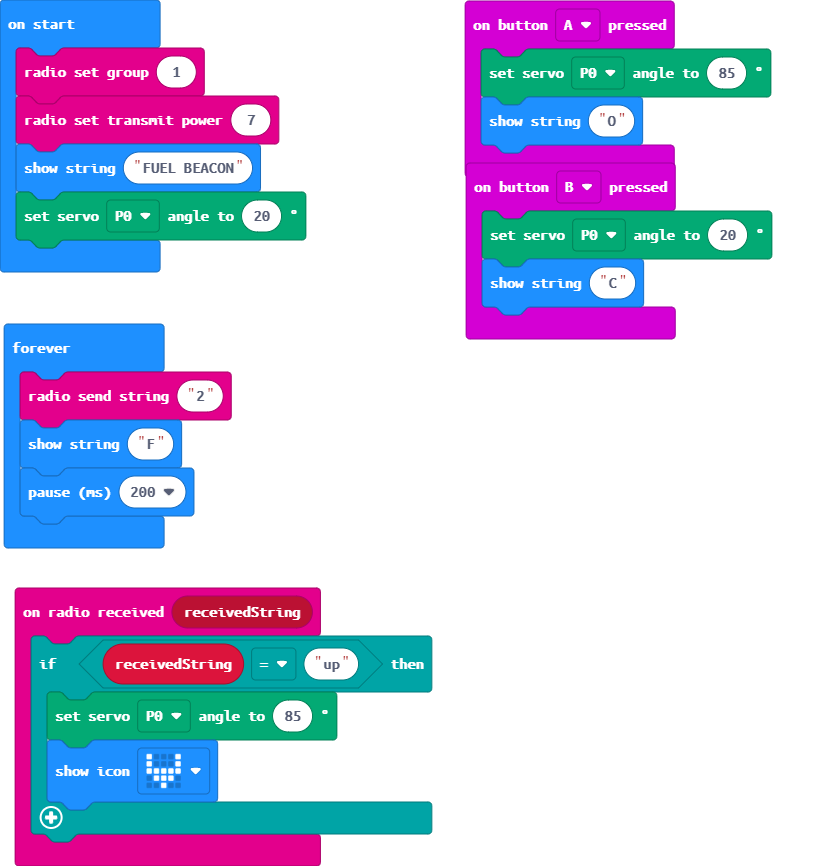
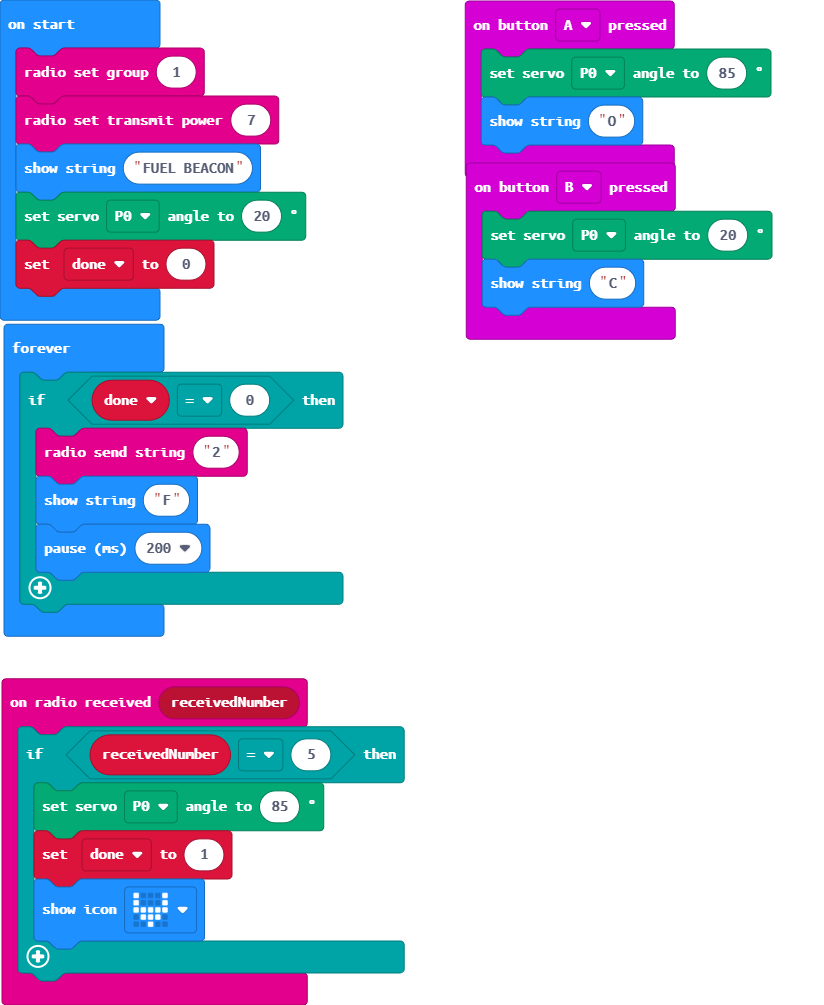
add done variable

Changed region(s): [[0.0, 0.0, 0.4248, 0.6236], [0.0, 0.6547, 0.5461, 1.0], [0.5461, 0.0, 0.9405, 0.4053]]

diff --git a/main.ts b/main.ts
@@ -1,23 +1,28 @@
+radio.onReceivedNumber(function (receivedNumber) {
+    if (receivedNumber == 5) {
+        servos.P0.setAngle(85)
+        done = 1
+        basic.showIcon(IconNames.Cow)
+    }
+})
 input.onButtonPressed(Button.A, function () {
     servos.P0.setAngle(85)
     basic.showString("O")
-})
-radio.onReceivedString(function (receivedString) {
-    if (receivedString == "up") {
-        servos.P0.setAngle(85)
-        basic.showIcon(IconNames.Cow)
-    }
 })
 input.onButtonPressed(Button.B, function () {
     servos.P0.setAngle(20)
     basic.showString("C")
 })
+let done = 0
 radio.setGroup(1)
 radio.setTransmitPower(7)
 basic.showString("FUEL BEACON")
 servos.P0.setAngle(20)
+done = 0
 basic.forever(function () {
-    radio.sendString("2")
-    basic.showString("F")
-    basic.pause(200)
+    if (done == 0) {
+        radio.sendString("2")
+        basic.showString("F")
+        basic.pause(200)
+    }
 })
